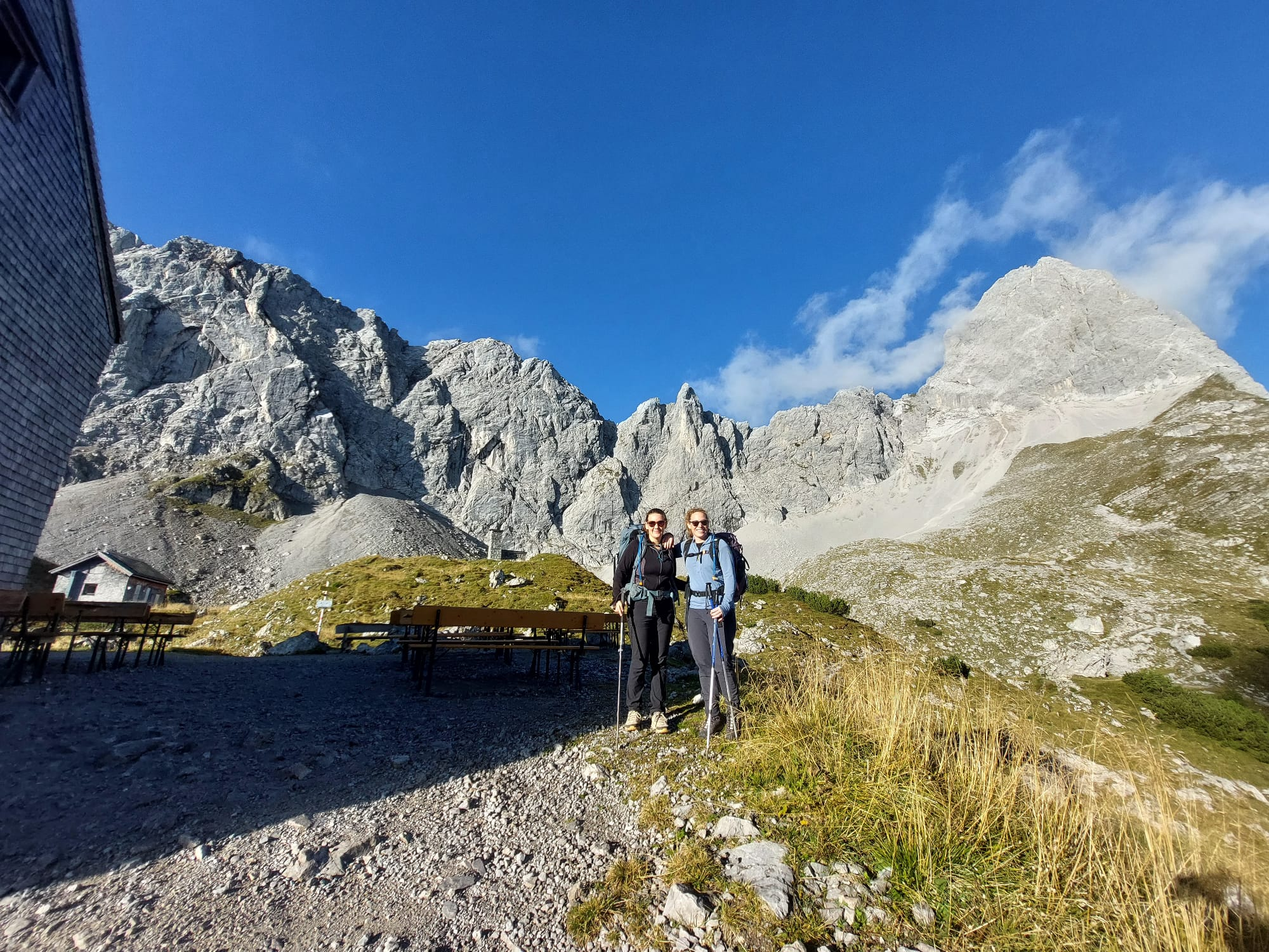
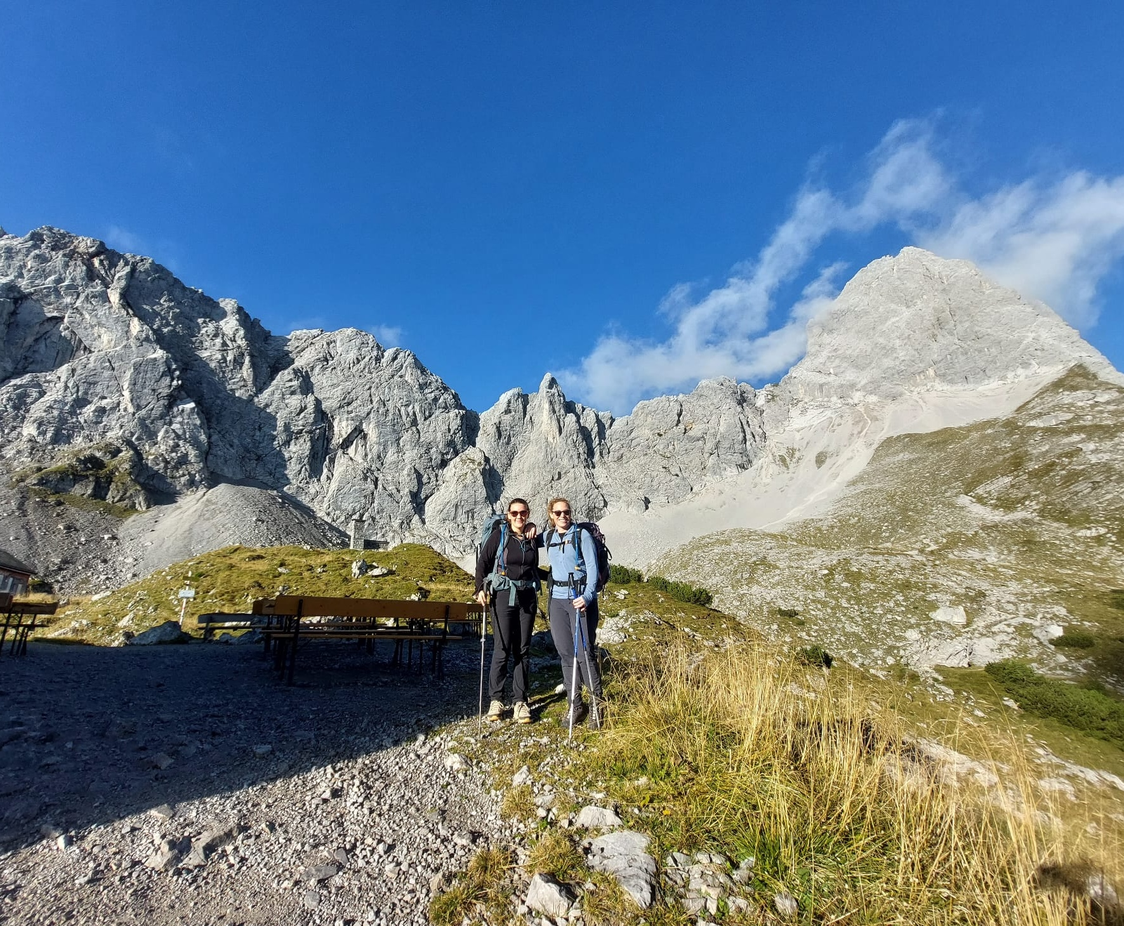
feat: updates

diff --git a/components/sections/Timeline.tsx b/components/sections/Timeline.tsx
@@ -8,9 +8,7 @@ import BackgroundAnimation from "../BackgroundAnimation";
 
 interface WeekendItem {
   title: string;
-  description: string;
-  extra?: string;
-  list?: string[];
+  description: string[];
 }
 
 interface WeekendDay {
@@ -23,16 +21,18 @@ const weekend: WeekendDay[] = [
     day: "Friday",
     items: [
       {
-        title: "Arrival at the chalet",
-        description:
+        title: "Arrival & welcome drink",
+        description: [
           "Make your way up to the chalet by lift or on foot. The last lift up is at 5pm, so please aim to arrive before then.",
-        extra:
+          "Once everyone has made their way up the mountain, we’ll get the weekend started with a welcome drink on us!",
           "In case of emergency or delayed flights, we do have the possibility of getting one or two cars up the private access road — but please do not plan with this option. Aim to be there comfortably before 5!",
+        ],
       },
       {
         title: "Welcome drinks & Dinner",
-        description:
-          "Catch up, and enjoy a simple dinner and drinks at the chalet.",
+        description: [
+          "We’ll have dinner together at the restaurant, where everyone can order and pay for their own food and drinks. Afterwards, the bar will be open for us to relax, catch up and enjoy our first evening in the mountains.",
+        ],
       },
     ],
   },
@@ -41,27 +41,28 @@ const weekend: WeekendDay[] = [
     items: [
       {
         title: "Breakfast",
-        description: "Breakfast at Haus Matschwitz.",
+        description: ["Breakfast at Haus Matschwitz."],
       },
       {
         title: "Wedding activity / optional hike",
-        description:
+        description: [
           "Optional fun activity and hike for anyone who would like to join.",
+        ],
       },
       {
         title: "Wedding apéritif",
-        description:
+        description: [
           "Apéritif at Restaurant Feineck, at the top of the mountain.",
-        extra:
-          "This is also reachable by taking the last section of the lift, or doing the optional 1h30 walk up.",
+          "This is reachable by taking the last section of the lift or doing the optional 1h30 walk up.",
+        ],
       },
       {
         title: "Rest",
-        description: "A bit of time to relax before dinner.",
+        description: ["A bit of time to relax before dinner."],
       },
       {
         title: "Dinner",
-        description: "Celebration dinner at the chalet.",
+        description: ["Celebration dinner at the chalet."],
       },
     ],
   },
@@ -70,13 +71,15 @@ const weekend: WeekendDay[] = [
     items: [
       {
         title: "Mountain brunch",
-        description:
-          "Brunch altogether at the chalet, included as part of the wedding.",
+        description: [
+          "Brunch all together at the chalet, included as part of the wedding.",
+        ],
       },
       {
         title: "Make your way down the mountain",
-        description:
+        description: [
           "There are some fun options for getting back down! Try the slides, mountain carts or Alpine Coaster — or, of course, hike or take the lift down.",
+        ],
       },
     ],
   },
@@ -91,7 +94,7 @@ export default function Timeline() {
           <div className="relative z-10">
             <Title title="Our Weekend" />
             <Text text="We really just want to spend time with everyone, and as we love the mountains, we’d love for you all to join us there! It won’t be a traditional wedding celebration, but there will still be plenty of food, drinks, games, good company and unbeatable mountain views." />
-            <Text text="Here’s roughly what the weekend will look like. We are still finalising details, so will udpate the page in due course." />
+            <Text text="Here’s roughly what the weekend will look like. We are still finalising details, so will update the page in due course." />
 
             <div className="relative mt-14 md:mt-16">
               {/* Timeline line — LEFT */}
@@ -130,26 +133,11 @@ export default function Timeline() {
                                 {item.title}
                               </div>
 
-                              <div className="text-gray-600 text-base leading-relaxed">
-                                {item.description}
+                              <div className="space-y-3 text-gray-600 text-base leading-relaxed">
+                                {item.description.map((paragraph) => (
+                                  <p key={paragraph}>{paragraph}</p>
+                                ))}
                               </div>
-
-                              {item.extra && (
-                                <div className="text-gray-600 text-base leading-relaxed mt-3">
-                                  {item.extra}
-                                </div>
-                              )}
-
-                              {item.list && (
-                                <ul className="mt-4 space-y-2 text-gray-600 text-base">
-                                  {item.list.map((entry) => (
-                                    <li key={entry} className="flex gap-3">
-                                      <span>•</span>
-                                      <span>{entry}</span>
-                                    </li>
-                                  ))}
-                                </ul>
-                              )}
                             </div>
                           </motion.div>
                         </FadeIn>

diff --git a/app/page.tsx b/app/page.tsx
@@ -291,10 +291,10 @@ export default function Home() {
             <p className="text-base sm:text-lg md:text-xl text-white/90 mb-6 sm:mb-8 max-w-2xl mx-auto leading-relaxed px-4">
               If you have time, we highly recommend spending a few extra days in
               the area. The mountains are truly an outdoor paradise, with
-              countless activities to enjoy. But if they are not your things,
-              this area is also has beautiful rivers, lakes and historical
-              towns. We’ve put together a small list of suggestions to help you
-              plan your stay.{" "}
+              countless activities to enjoy. But if they’re not your thing, the
+              area also has beautiful rivers, lakes and historical towns. We’ve
+              put together a small list of suggestions to help you plan your
+              stay.
             </p>
             <Link
               href="/activities"
@@ -332,7 +332,7 @@ export default function Home() {
             className="relative z-10 text-center px-4 sm:px-6"
           >
             <h2 className="font-script text-4xl sm:text-5xl md:text-7xl text-white mb-6 sm:mb-8 drop-shadow-2xl">
-              What next ?
+              What next?
             </h2>
             <p className="text-base sm:text-lg md:text-xl text-white/90 mb-6 sm:mb-8 max-w-2xl mx-auto leading-relaxed px-4">
               Please complete RSVPs by December 1st 2026, so we can figure out

diff --git a/components/sections/Activities.tsx b/components/sections/Activities.tsx
@@ -125,13 +125,13 @@ export default function Activities() {
               <figure className="w-full lg:w-1/2">
                 <Image
                   src="/images/Quinten.jpeg"
-                  alt="Quiten, Wallensee"
+                  alt="Quinten, Walensee"
                   width={800}
                   height={600}
                   className="w-full rounded-lg object-cover"
                 />
                 <figcaption className="mt-2 text-center text-sm text-gray-600 font-light">
-                  Wallensee, Switzerland
+                  Walensee, Switzerland
                 </figcaption>
               </figure>
 

diff --git a/components/sections/RSVP.tsx b/components/sections/RSVP.tsx
@@ -14,6 +14,7 @@ export default function RSVP() {
         <FadeIn className="relative z-10">
           <Title title="RSVP" />
           <Text text="We can't wait to celebrate with you!" />
+          <Text text="Please fill in the RSVP form by December 1st so we can sort accommodation logistics with the venue as soon as possible." />
         </FadeIn>
 
         <FadeIn delay={0.15} className="relative z-10">
